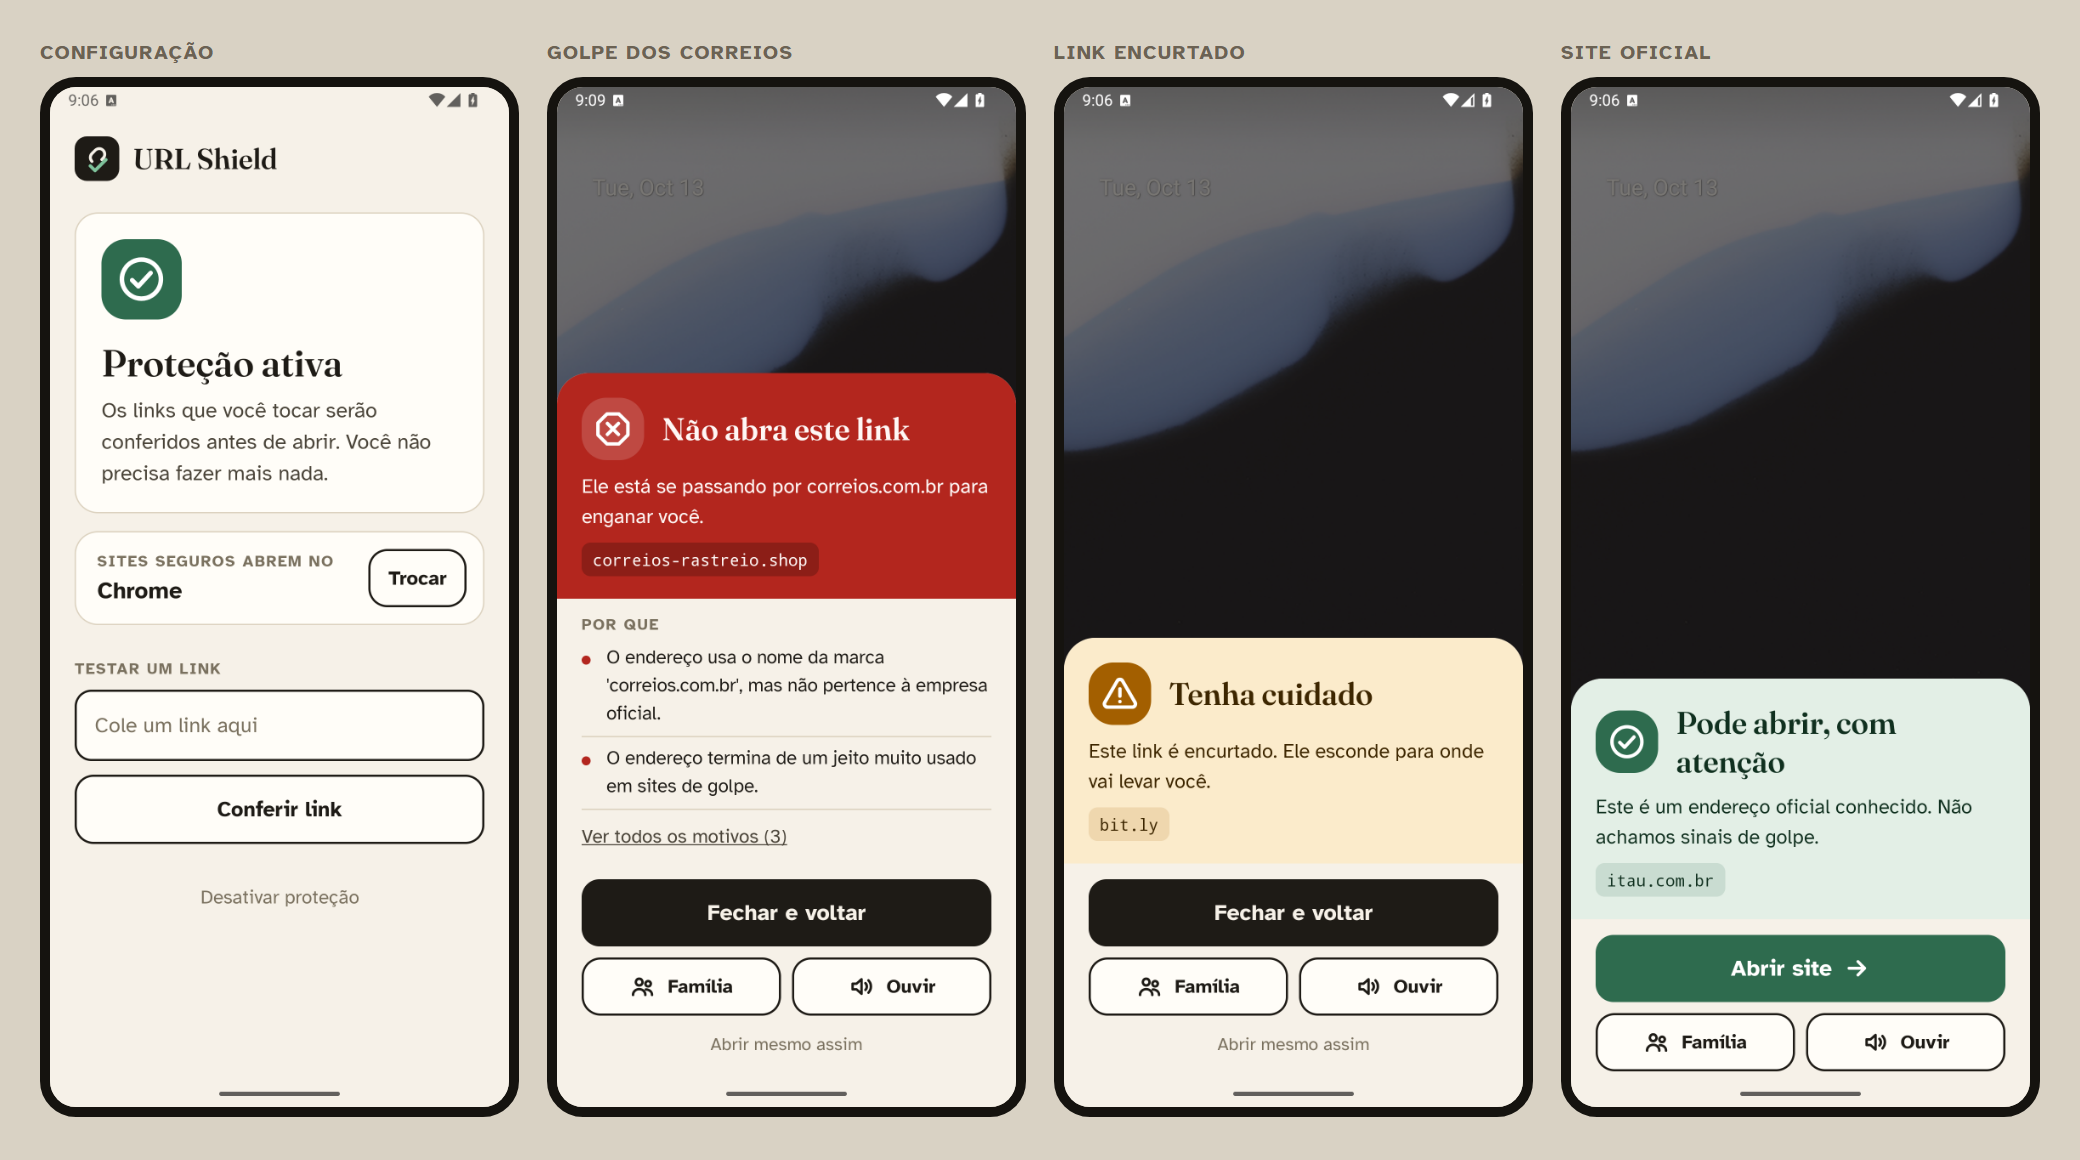
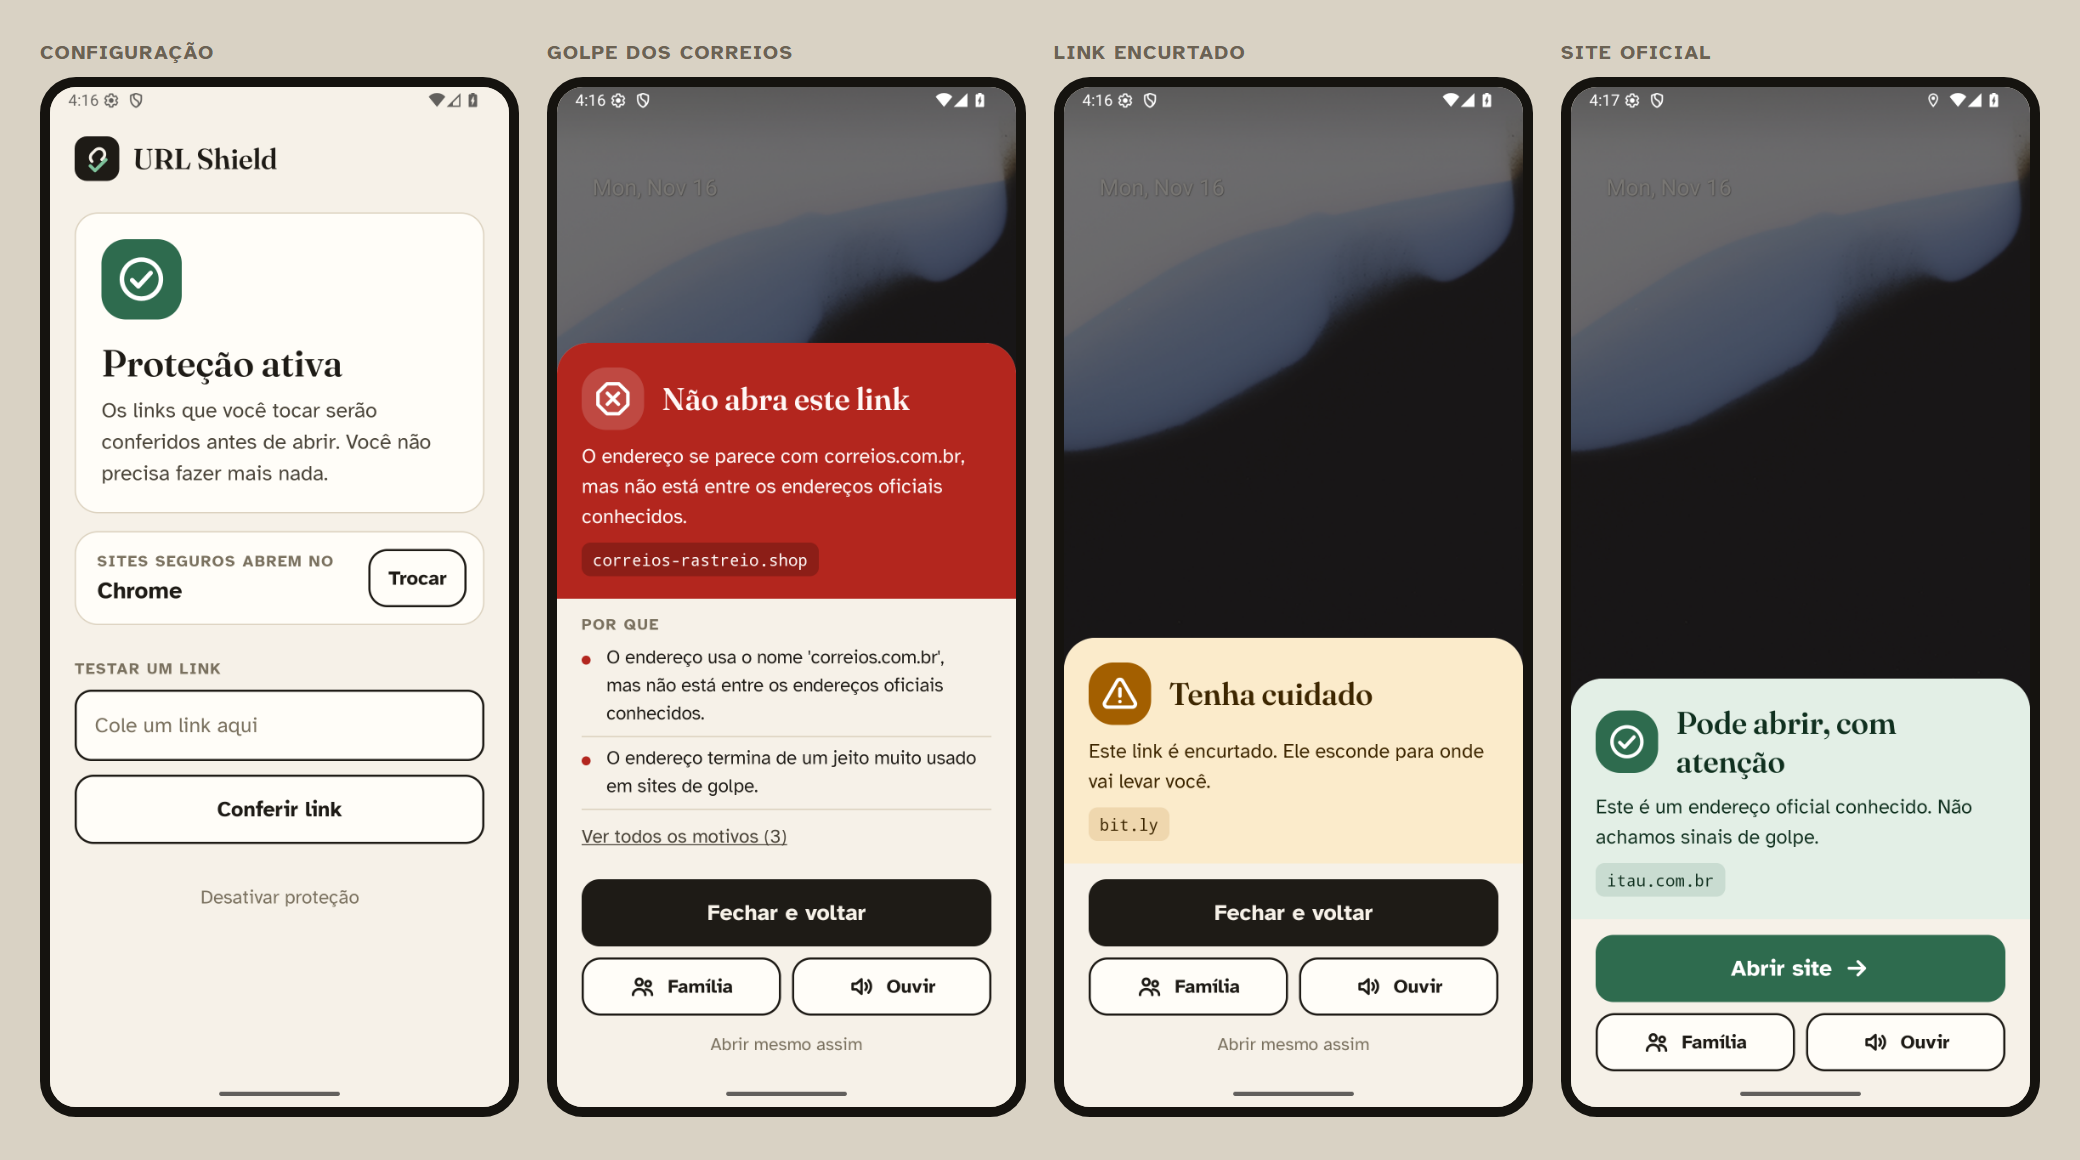
fix: pontuacao sem casas decimais e imagem do app com os textos novos

diff --git a/backend/app/explainer.py b/backend/app/explainer.py
@@ -6,7 +6,8 @@ def generate_accessible_explanation(heuristic_data: Dict[str, Any], lexical_data
     ideal para ser lido em voz alta (síntese de áudio).
     """
     level = heuristic_data.get("risk_level")
-    score = heuristic_data.get("risk_score")
+    # A pontuação é sempre múltipla de 5: exibida sem casas decimais
+    score = f"{heuristic_data.get('risk_score', 0):.0f}"
     penalties = heuristic_data.get("penalties", [])
     
     if level == "SEGURO":

diff --git a/android/app/src/main/java/br/com/urlshield/AnalysisResult.java b/android/app/src/main/java/br/com/urlshield/AnalysisResult.java
@@ -82,7 +82,7 @@ final class AnalysisResult {
 
     /** Monta o resultado a partir do motor local, com os mesmos textos de backend/app/explainer.py e main.py. */
     static AnalysisResult fromOffline(OfflineAnalyzer.Report report) {
-        String score = String.format(Locale.US, "%.1f", report.riskScore);
+        String score = String.format(Locale.US, "%.0f", report.riskScore);
         String verdict;
         String title;
         String summary;
